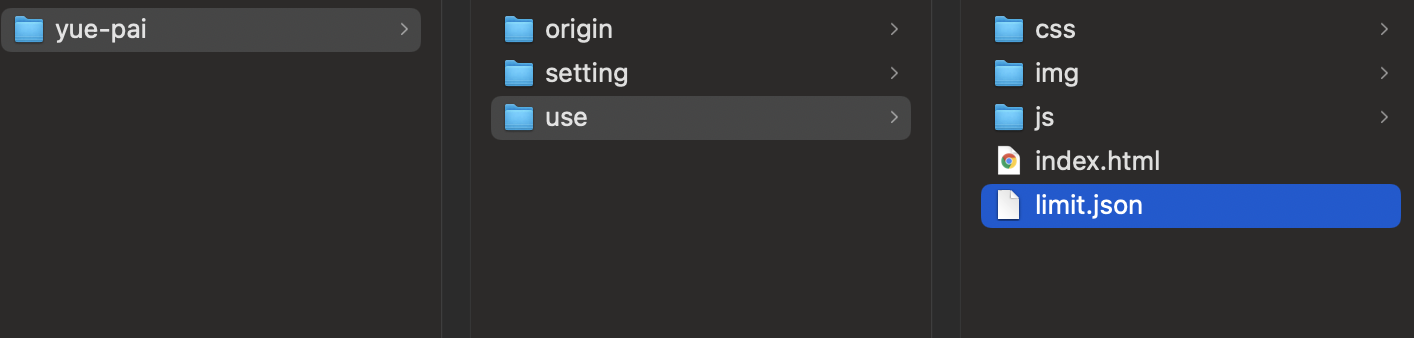
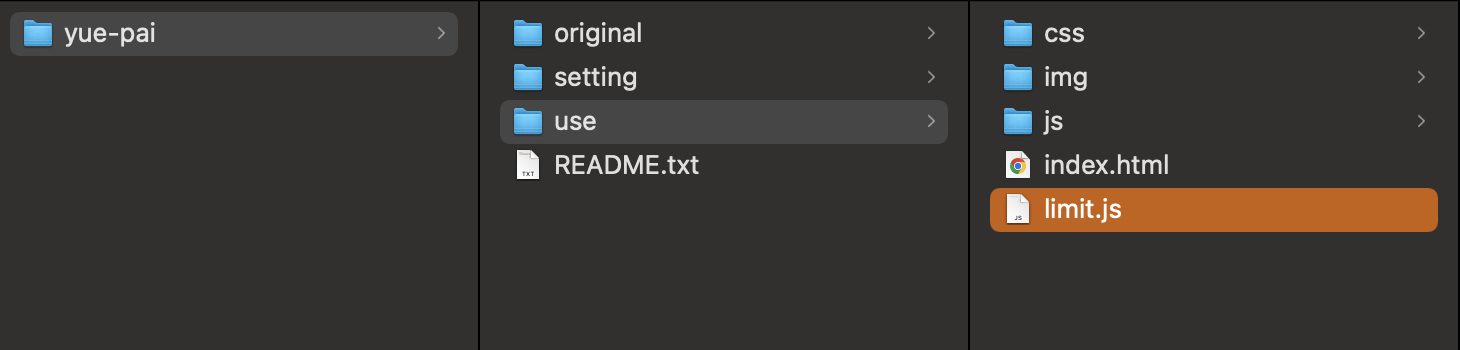
fix setting annotation

diff --git a/setting/setting.html b/setting/setting.html
@@ -50,7 +50,7 @@
       <div class="example">
         <p class="title">檔案位置/</p>
         <img src="./img/file.png" alt="" />
-        <div>*請注意下載後檔名為 limit.json</div>
+        <div>*請注意下載後檔名為 limit.js</div>
       </div>
       <div class="explain">
         <p class="title">檔案說明/</p>
